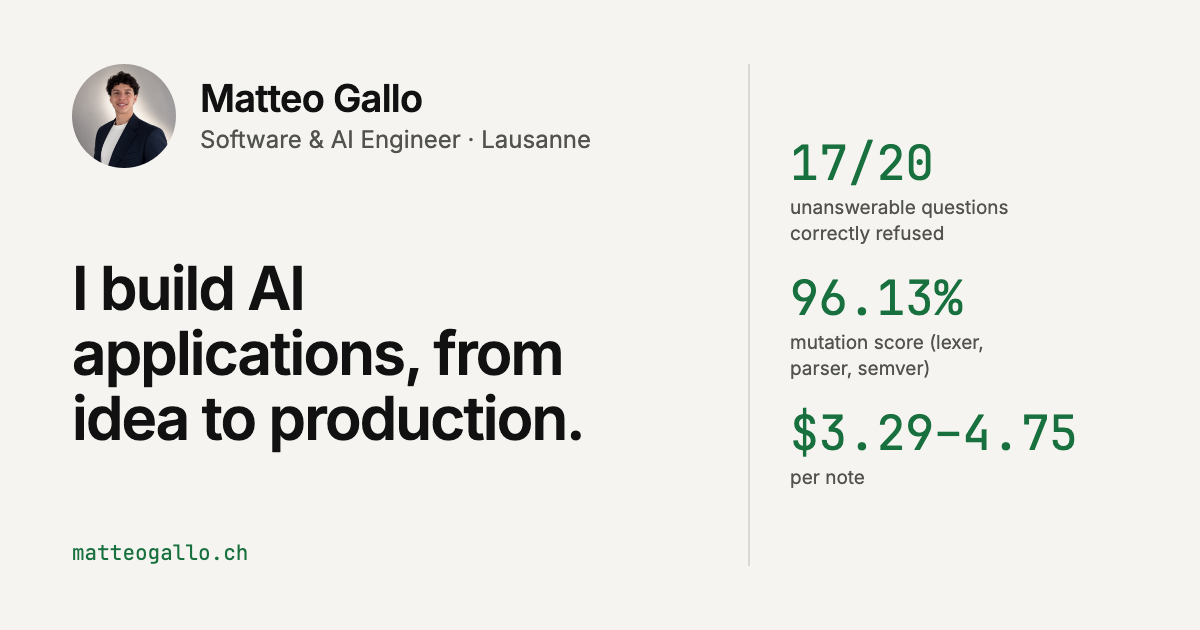
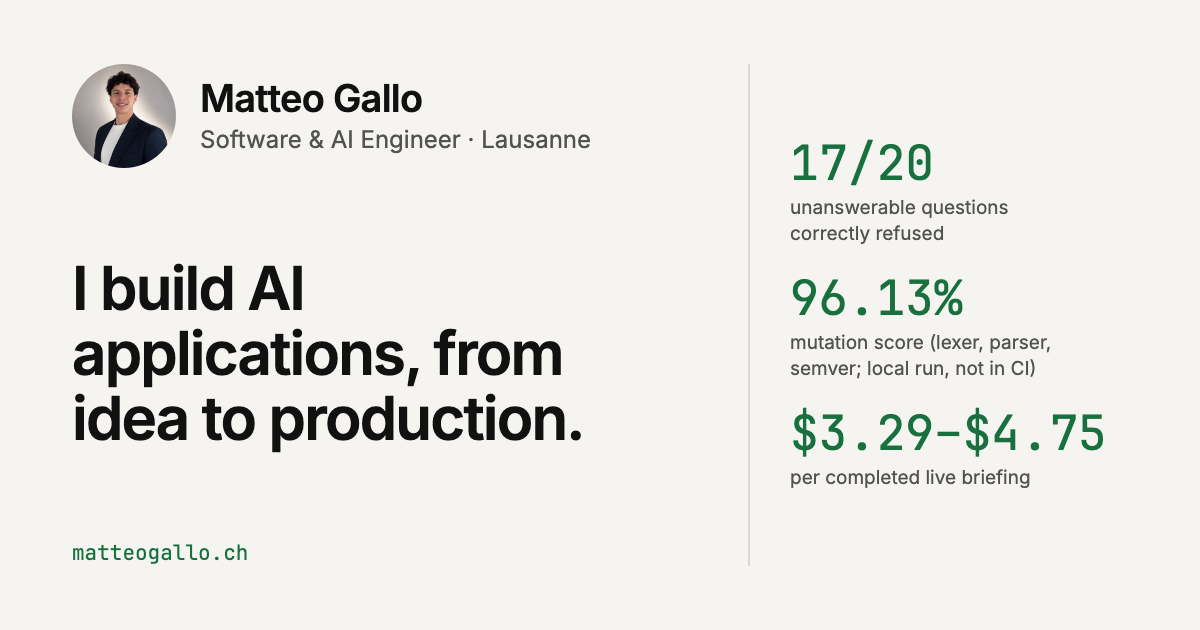
fix(home): praxis says briefing, the audit names its ai agent, local mutation run, bio

Changed region(s): [[0.6783, 0.6333, 0.925, 0.7841], [0.6475, 0.5127, 0.8633, 0.6032]]

diff --git a/tests/home.spec.ts b/tests/home.spec.ts
@@ -22,24 +22,24 @@ const WORDS = {
       ],
       [
         "Langage typé pour les prompts LLM, compilé vers TypeScript et Python, publié sur npm.",
-        "96,13 % — score de mutation (lexer, parser, semver)",
+        "96,13 % — score de mutation (lexer, parser, semver ; exécution locale, hors CI)",
         "Limite : Linter IA : 12 signalements justes sur 40 en revue humaine.",
       ],
       [
-        "Pipeline qui transforme une question business en note d'analyse sourcée, avec relecture adverse automatique.",
-        "3,29–4,75 $ — par note produite",
-        "Limite : Les 6 notes publiées sont signalées insuffisamment sourcées par son propre contrôle.",
+        "Pipeline qui transforme une question business en briefing d'analyse sourcé, avec relecture adverse automatique.",
+        "3,29–4,75 $ — par briefing live terminé",
+        "Limite : Les 6 briefings live terminés sont signalés insuffisamment sourcés par son propre contrôle.",
       ],
     ],
     method: [
-      ["Audit indépendant", "Chaque projet est relu par un auditeur sans contexte. Sur PromptLang : 23 constats, chacun corrigé, réfuté ou documenté.", "PR promptlang#32"],
-      ["Lecture des sorties réelles", "Les tests ne suffisent pas. La relecture d'une note Praxis a révélé des estimations présentées comme des faits ; le validateur a été corrigé.", "PR praxis#47"],
+      ["Audit indépendant", "Audit à froid par un agent IA sans contexte. Sur PromptLang : 23 constats, chacun corrigé, réfuté ou documenté.", "PR promptlang#32"],
+      ["Lecture des sorties réelles", "Les tests ne suffisent pas. La relecture d'un briefing Praxis a révélé des estimations présentées comme des faits ; le validateur a été corrigé.", "PR praxis#47"],
       ["Évaluation pré-enregistrée", "Échantillon tiré avec une graine fixe et commité avant l'annotation. Le résultat est publié tel quel, même défavorable : 12/40.", "PR promptlang#39"],
     ],
     bio: [
       "Ingénieur logiciel et IA basé à Lausanne. Je conçois des produits IA de bout en bout : spécification, architecture, évaluation, mise en production.",
       "Je travaille avec des agents de code dans un cadre strict : ils écrivent l'essentiel du code ; je spécifie, je relis chaque changement et je réponds de ce qui est mergé. Tests, CI et mesures publiées sont obligatoires sur chaque projet.",
-      "Formation initiale d'automaticien à l'ETML.",
+      "Formation d'automaticien à l'ETML, interrompue en deuxième année pour me consacrer au développement logiciel.",
       "Langues : français et italien (maternelles), anglais (intermédiaire), espagnol (notions).",
       "Ouvert à un poste d'ingénieur logiciel ou IA en Suisse romande.",
     ],
@@ -60,22 +60,22 @@ const WORDS = {
         "17/20 — unanswerable questions correctly refused",
         "Limit: 3 unanswerable questions got an answer instead of a refusal.",
       ],
-      ["A typed language for LLM prompts, compiled to TypeScript and Python, published on npm.", "96.13% — mutation score (lexer, parser, semver)", "Limit: AI linter, 12 of 40 findings correct in human review."],
+      ["A typed language for LLM prompts, compiled to TypeScript and Python, published on npm.", "96.13% — mutation score (lexer, parser, semver; local run, not in CI)", "Limit: AI linter, 12 of 40 findings correct in human review."],
       [
-        "A pipeline that turns a business question into a sourced analysis note, with automatic adversarial review.",
-        "$3.29–4.75 — per note",
-        "Limit: all 6 published notes are flagged as under-sourced by its own check.",
+        "A pipeline that turns a business question into a sourced analysis briefing, with automatic adversarial review.",
+        "$3.29–$4.75 — per completed live briefing",
+        "Limit: all 6 completed live briefings are flagged as under-sourced by its own check.",
       ],
     ],
     method: [
-      ["Independent audit", "Every project is reviewed by an auditor with no context. On PromptLang: 23 findings, each fixed, refuted or documented.", "PR promptlang#32"],
-      ["Reading real outputs", "Tests are not enough. Reviewing a Praxis note revealed estimates presented as facts; the validator was fixed.", "PR praxis#47"],
+      ["Independent audit", "Cold audit by an AI agent with no prior context. On PromptLang: 23 findings, each fixed, refuted or documented.", "PR promptlang#32"],
+      ["Reading real outputs", "Tests are not enough. Reviewing a Praxis briefing revealed estimates presented as facts; the validator was fixed.", "PR praxis#47"],
       ["Pre-registered evaluation", "Sample drawn with a fixed seed and committed before annotation. The result is published as is, even when unfavourable: 12/40.", "PR promptlang#39"],
     ],
     bio: [
       "Software and AI engineer based in Lausanne. I design AI products end to end: specification, architecture, evaluation, production.",
       "I work with coding agents under strict rules: they write most of the code; I specify, review every change and answer for what gets merged. Tests, CI and published measurements are mandatory on every project.",
-      "Initial training as an automation technician (ETML).",
+      "Automation-technician apprenticeship at ETML, left in the second year to focus on software development.",
       "Languages: French and Italian (native), English (intermediate), Spanish (basic).",
       "Open to a software or AI engineering role in French-speaking Switzerland.",
     ],

diff --git a/src/lib/og.ts b/src/lib/og.ts
@@ -22,8 +22,11 @@ export const OG = {
   /** The home page's project cards, drawn beside the headline: one figure each, as the card shows it. */
   figures: [
     { id: "verity.refusal_recall", caption: { fr: "questions sans réponse correctement refusées", en: "unanswerable questions correctly refused" } },
-    { id: "promptlang.mutation_score", caption: { fr: "score de mutation (lexer, parser, semver)", en: "mutation score (lexer, parser, semver)" } },
-    { id: "praxis.cost_per_briefing", caption: { fr: "par note produite", en: "per note" }, text: { en: "$3.29–4.75" } },
+    {
+      id: "promptlang.mutation_score",
+      caption: { fr: "score de mutation (lexer, parser, semver ; exécution locale, hors CI)", en: "mutation score (lexer, parser, semver; local run, not in CI)" },
+    },
+    { id: "praxis.cost_per_briefing", caption: { fr: "par briefing live terminé", en: "per completed live briefing" } },
   ],
   /** Each case study's image leads with the first figure of its brief, captioned as there. */
   cases: {
@@ -62,7 +65,7 @@ function caseImage(slug: CaseSlug, lang: Lang): OgImage {
 
 /** The figures of the home image in `lang`: the value as its card shows it, and its caption. */
 export function homeFigures(lang: Lang): { id: string; value: string; caption: string }[] {
-  return OG.figures.map((f) => ({ id: f.id, value: (f as { text?: Partial<Record<Lang, string>> }).text?.[lang] ?? measure(f.id).display[lang], caption: f.caption[lang] }));
+  return OG.figures.map((f) => ({ id: f.id, value: measure(f.id).display[lang], caption: f.caption[lang] }));
 }
 
 /** The image a page at `path` points to: its case study's, or its language's home image. */

diff --git a/tests/built-html.spec.ts b/tests/built-html.spec.ts
@@ -73,14 +73,12 @@ const CALQUES = [
   /refuses? rightly/, // « à raison »: correctly
   /technician training/, // « formation d’automaticien »: apprenticeship
   /\bWrite (to me|an e-mail)\b/,
+  /\banalysis note|\bnotes?\b(?![^<]*<\/code>)/, // Praxis delivers briefings
   /\bFrame of\b/, // « Image de l’enregistrement »: a still
   /told apart from chance|counted apart\b/,
   /programming interface \(API\)/,
   /point of comparison|test bench/, // « point de comparaison », « banc de test »: baseline, test harness
 ];
-// The case studies call what Praxis delivers a briefing; the home page alone keeps its owner's own
-// words, "a sourced analysis note".
-const CASE_CALQUES = [/\banalysis note|\bnotes?\b(?![^<]*<\/code>)/];
 for (const file of files.filter((f) => f.startsWith("en/"))) {
   test(`${file}: no French calque in the English`, () => {
     // What a reader or a link preview shows: the text, and the attributes written for people.
@@ -98,7 +96,7 @@ for (const file of files.filter((f) => f.startsWith("en/"))) {
       } else if (!french) parts.push(token);
     }
     const text = parts.join("");
-    expect([...CALQUES, ...(file === "en/index.html" ? [] : CASE_CALQUES)].flatMap((c) => around(text, c))).toEqual([]);
+    expect(CALQUES.flatMap((c) => around(text, c))).toEqual([]);
   });
 }
 
